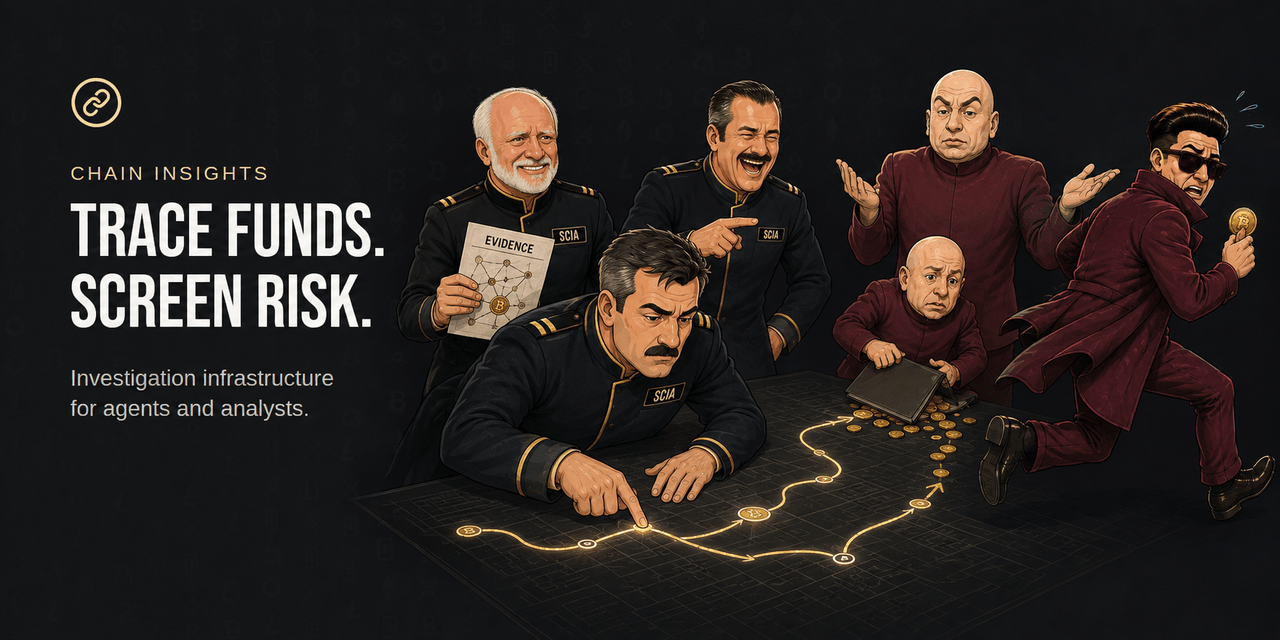
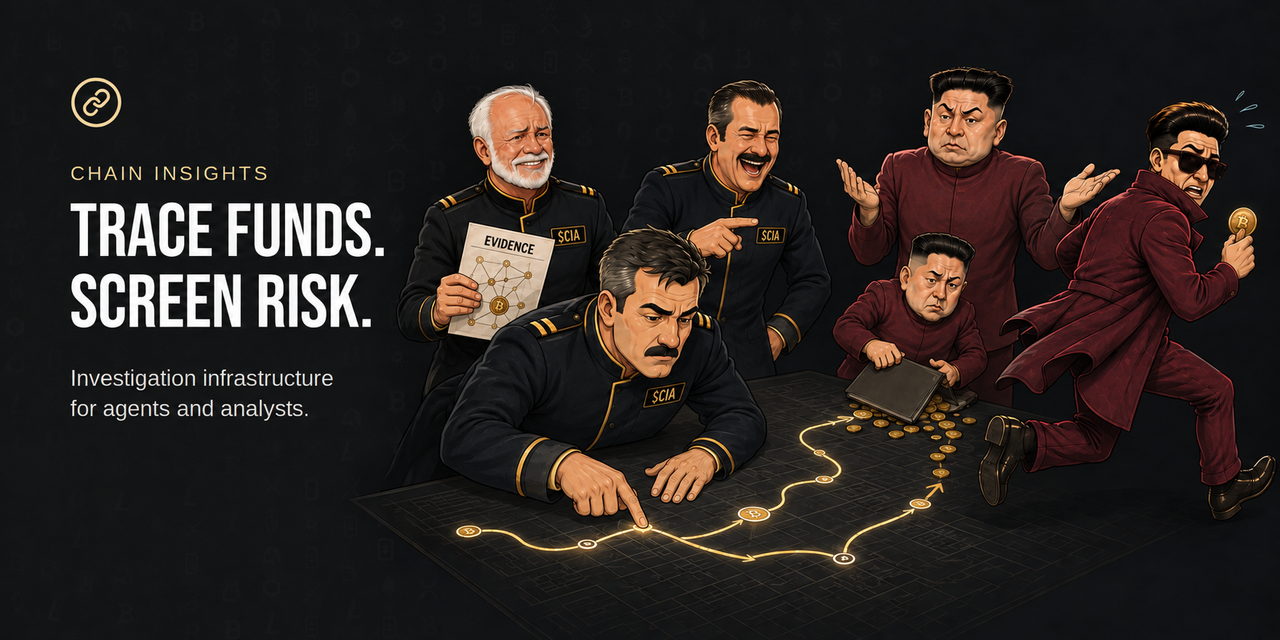
fix: refresh GitHub crime-scene cast artwork (#395)

diff --git a/.github/assets/chain-insights-github-crime-scene.md b/.github/assets/chain-insights-github-crime-scene.md
@@ -1,0 +1,76 @@
+# GitHub crime-scene artwork
+
+The 26 September 2026 refresh uses the current cast faces.
+The layout, six actions, headline, logo and opaque patterned background remain.
+This is fictional brand artwork.
+
+## Files
+
+| Use | File | Actual size | Encoding |
+| --- | --- | --- | --- |
+| Painted master | [chain-insights-github-crime-scene-master.png](chain-insights-github-crime-scene-master.png) | 1774 × 887 | RGB PNG, original generated bytes |
+| README image | [chain-insights-github-crime-scene.png](chain-insights-github-crime-scene.png) | 1280 × 640 | RGB PNG, lossless compression |
+
+The README export is 1,207,375 bytes. It preserves the existing dimensions.
+It uses full RGB colour rather than a reduced palette.
+
+## References
+
+| Input | Role | SHA-256 |
+| --- | --- | --- |
[2 lines of base64/hex data omitted]
+
+The second input was decoded from its SVG image layer without resizing.
+Current cast directions take precedence over the historical faces.
+
+## Generation and export
+
+- Built-in image generation edit. One generation with two image references.
+- Requested dimensions: 1774 × 887 or greater at the same 2:1 ratio.
+- Returned dimensions: **1774 × 887**. The master was copied without modification.
+- Export: Sharp resize to 1280 × 640 with the Lanczos3 kernel.
+- PNG export: compression level 9, palette disabled.
+- No tracing, sharpening, blend effect or lossy recompression.
+
[1 lines of base64/hex data omitted]
+
[1 lines of base64/hex data omitted]
+
+## Visual checks
+
+- Current Wince and Laugher faces follow the Captain family.
+- The Schemer and The Echo use the approved Kim-inspired faces.
+- The Wince's moustache matches his white-grey beard.
+- Three rectangular crew badges read `$CIA`. Villains have no badges.
+- The logo, headline, supporting copy and all six actions remain legible.
+- The background remains opaque, matching the original banner.
+- Local browser renders were inspected at 960 CSS pixels wide, pixel ratio 1,
+  and 358 CSS pixels wide, pixel ratio 2.
+- This render check does not establish a change to GitHub repository settings.
+
+## Exact edit prompt
+
+```text
+Use case: precise-object-edit.
+Asset type: Chain Insights GitHub README and social banner.
+Image 1 is the 7 September high quality painted master and EXACT edit target. Preserve its composition, all six figures, all body poses and hand gestures, the table, the fund-flow trail, coins, black patterned opaque background, brand symbol, left-side headline and supporting copy. Image 2 supplies ONLY today's approved cast faces and hairstyle identities.
+
+Change only the faces/heads of the older white-bearded investigator, the laughing investigator, and the two bald burgundy villains, plus correct the three chest badge texts. Keep the front investigating Captain and fleeing burgundy sunglasses character unchanged. Keep all original clothing, anatomy, positions, action, and scale.
+Older investigator: today's approved Captain-family older face from image 2, white-grey hair, white-grey beard AND moustache in exactly same white-grey color, worried tight smile.
+Laughing investigator: today's approved Captain-family face blended with laughing round cheeks, thick dark moustache, squinting eyes and open joyful laugh as in image 2.
+Large bald villain: replace with today's approved Kim Jong-un caricature face and high swept black haircut shown in image 2. Preserve the original offended bewilderment and raised open palms.
+Small bald villain: same approved adult Kim-like face and swept black haircut, a smaller adult clone of the boss. Preserve original worried glancing expression and hands over coins/case.
+
+Every visible investigator badge must be a BLACK RECTANGLE with a thin pale-gold border and exact legible pale-gold text "$CIA": DOLLAR SIGN (visible vertical stroke), C, I, A. There are exactly three badges. Villains have no badges. No shields, seals, or eagle symbols.
+Typography on left must remain verbatim with exact size, spacing and placement:
+"CHAIN INSIGHTS"
+"TRACE FUNDS."
+"SCREEN RISK."
+"Investigation infrastructure"
+"for agents and analysts."
+Retain exact original logo above text. Keep EVIDENCE on the held paper.
+
+Match image 1's September 7 dimensional painted editorial comic quality: natural skin, clear fine eyes/mouth/brow detail and polished edges. Cool charcoal, pale cream gold and restrained burgundy. No orange wash, no blur, no coarse tracing, no flat cel shading. Keep exact 2:1 composition at requested 1774 by 887 pixels or greater native resolution. Opaque background as in original. Do not crop or recompose.
+```
+

diff --git a/CHANGELOG.md b/CHANGELOG.md
@@ -3,6 +3,12 @@
 
 All notable changes to Chain Insights are recorded here.
 
+## [0.33.1] - 2026-09-26 — refreshed GitHub artwork
+
+### Changed
+
+- Updated the GitHub crime-scene illustration to the current Chain Insights cast.
+
 ## [0.33.0] - 2026-09-22 — docs: hosted topology limits and typed errors
 
 ### Changed
